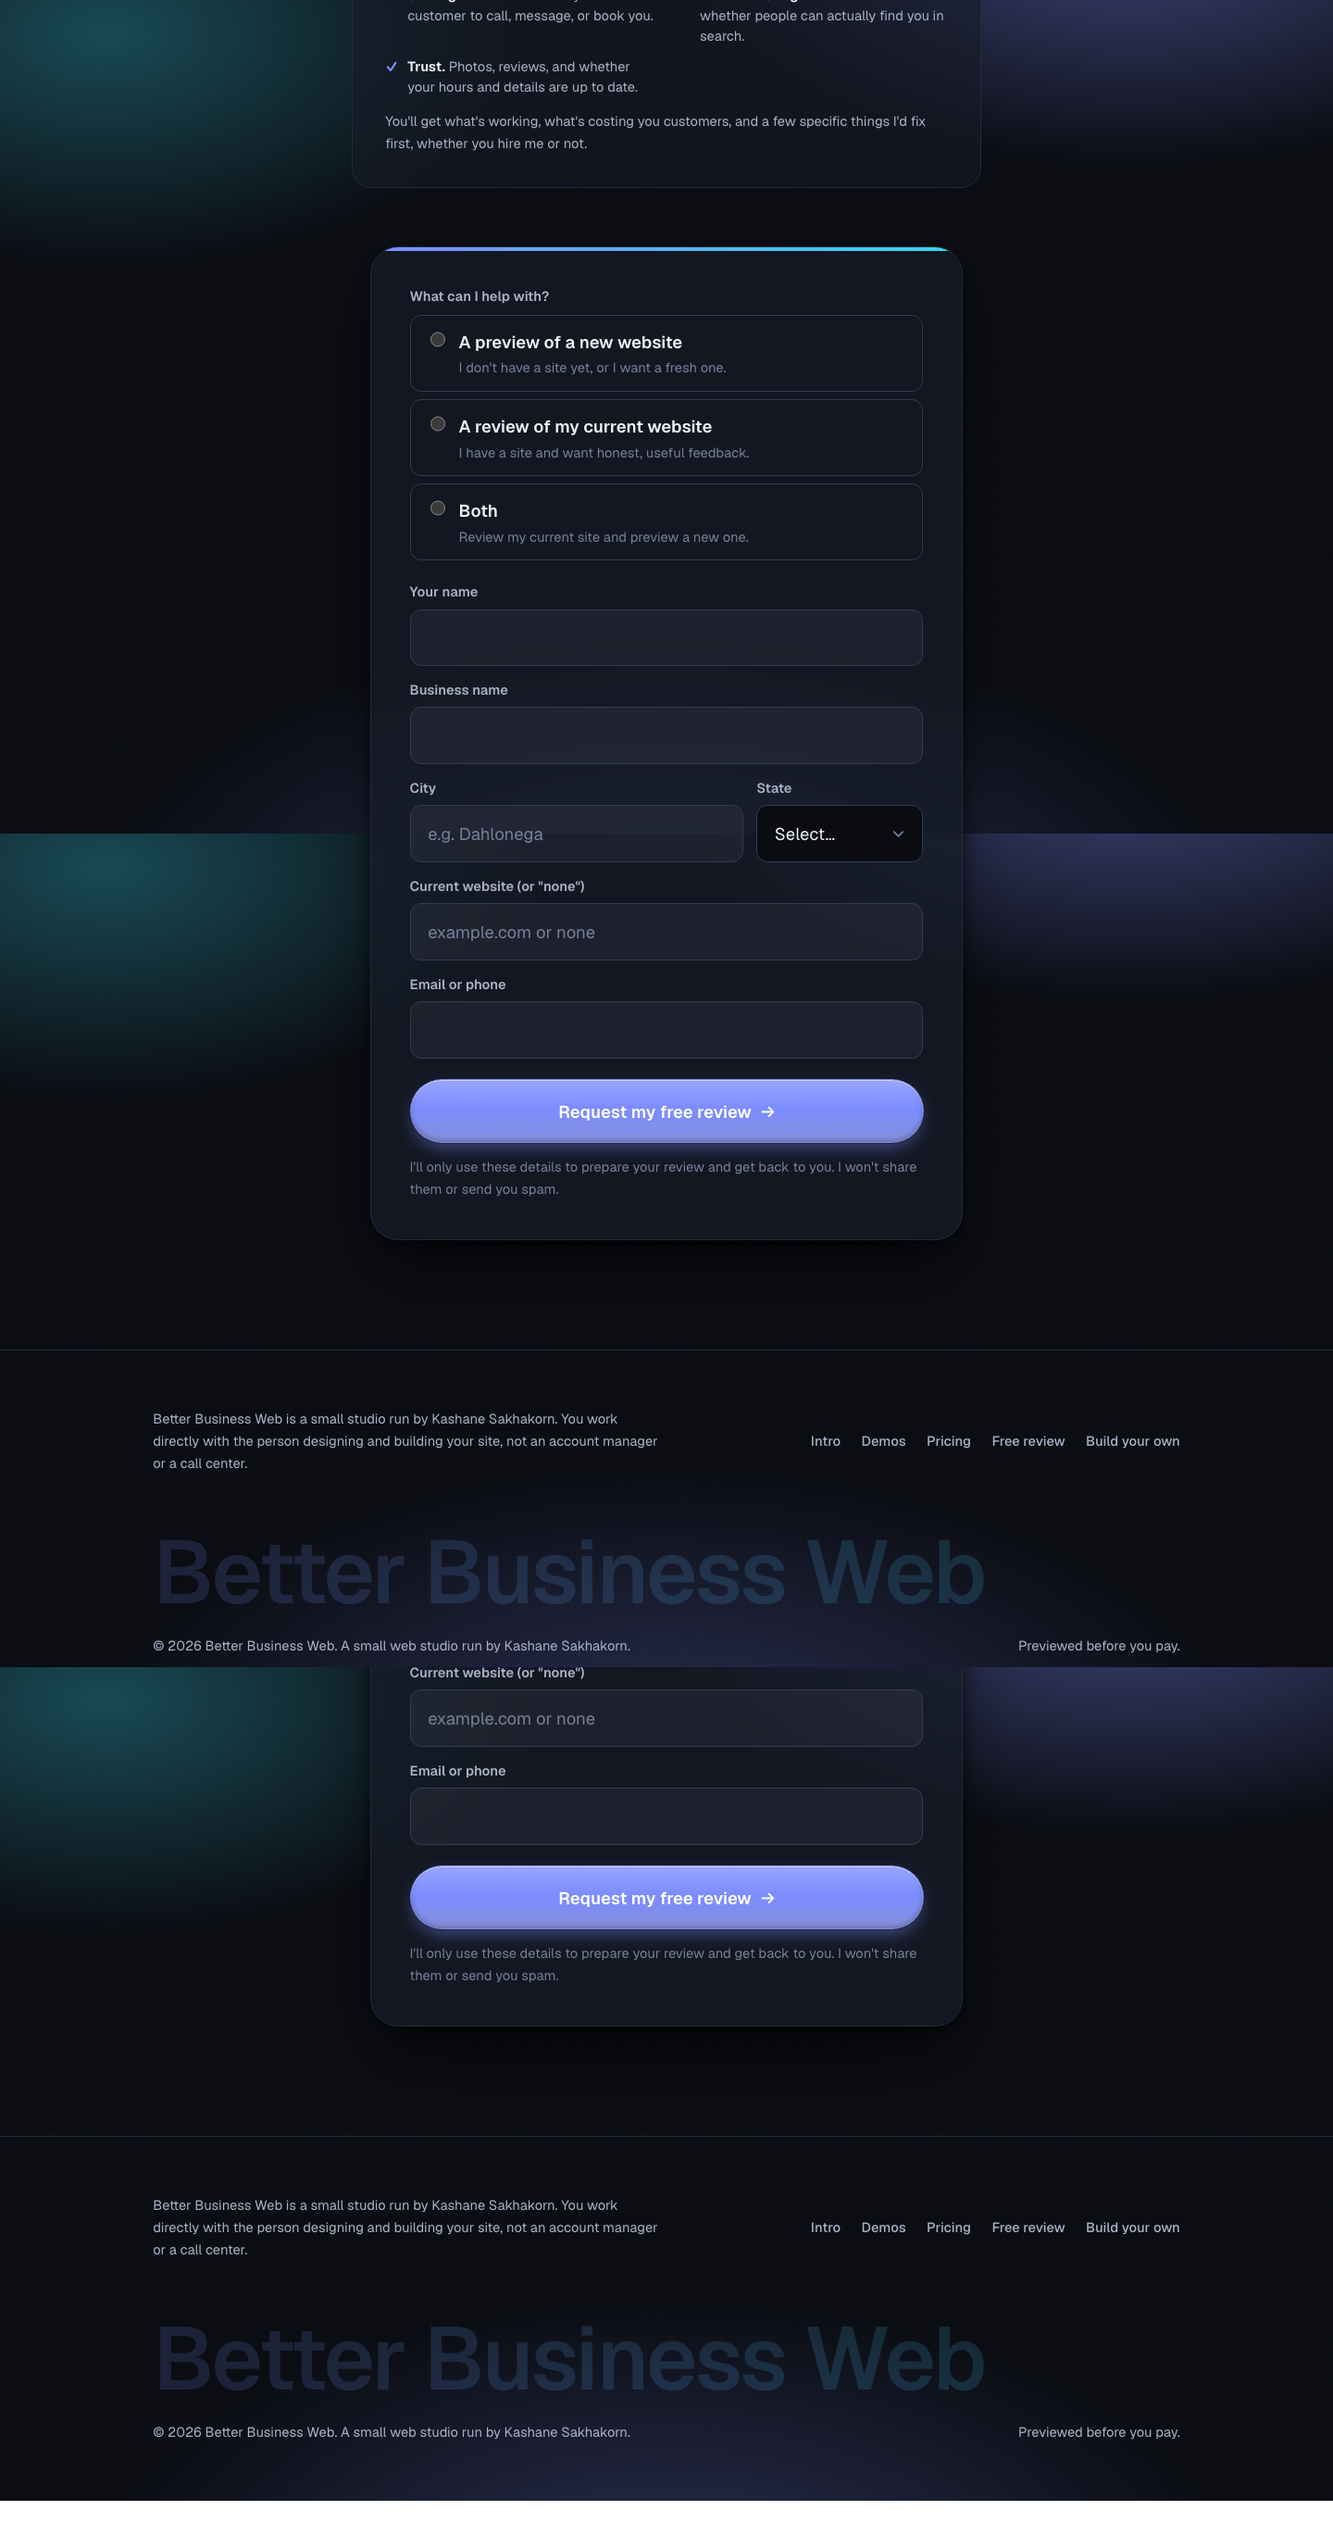
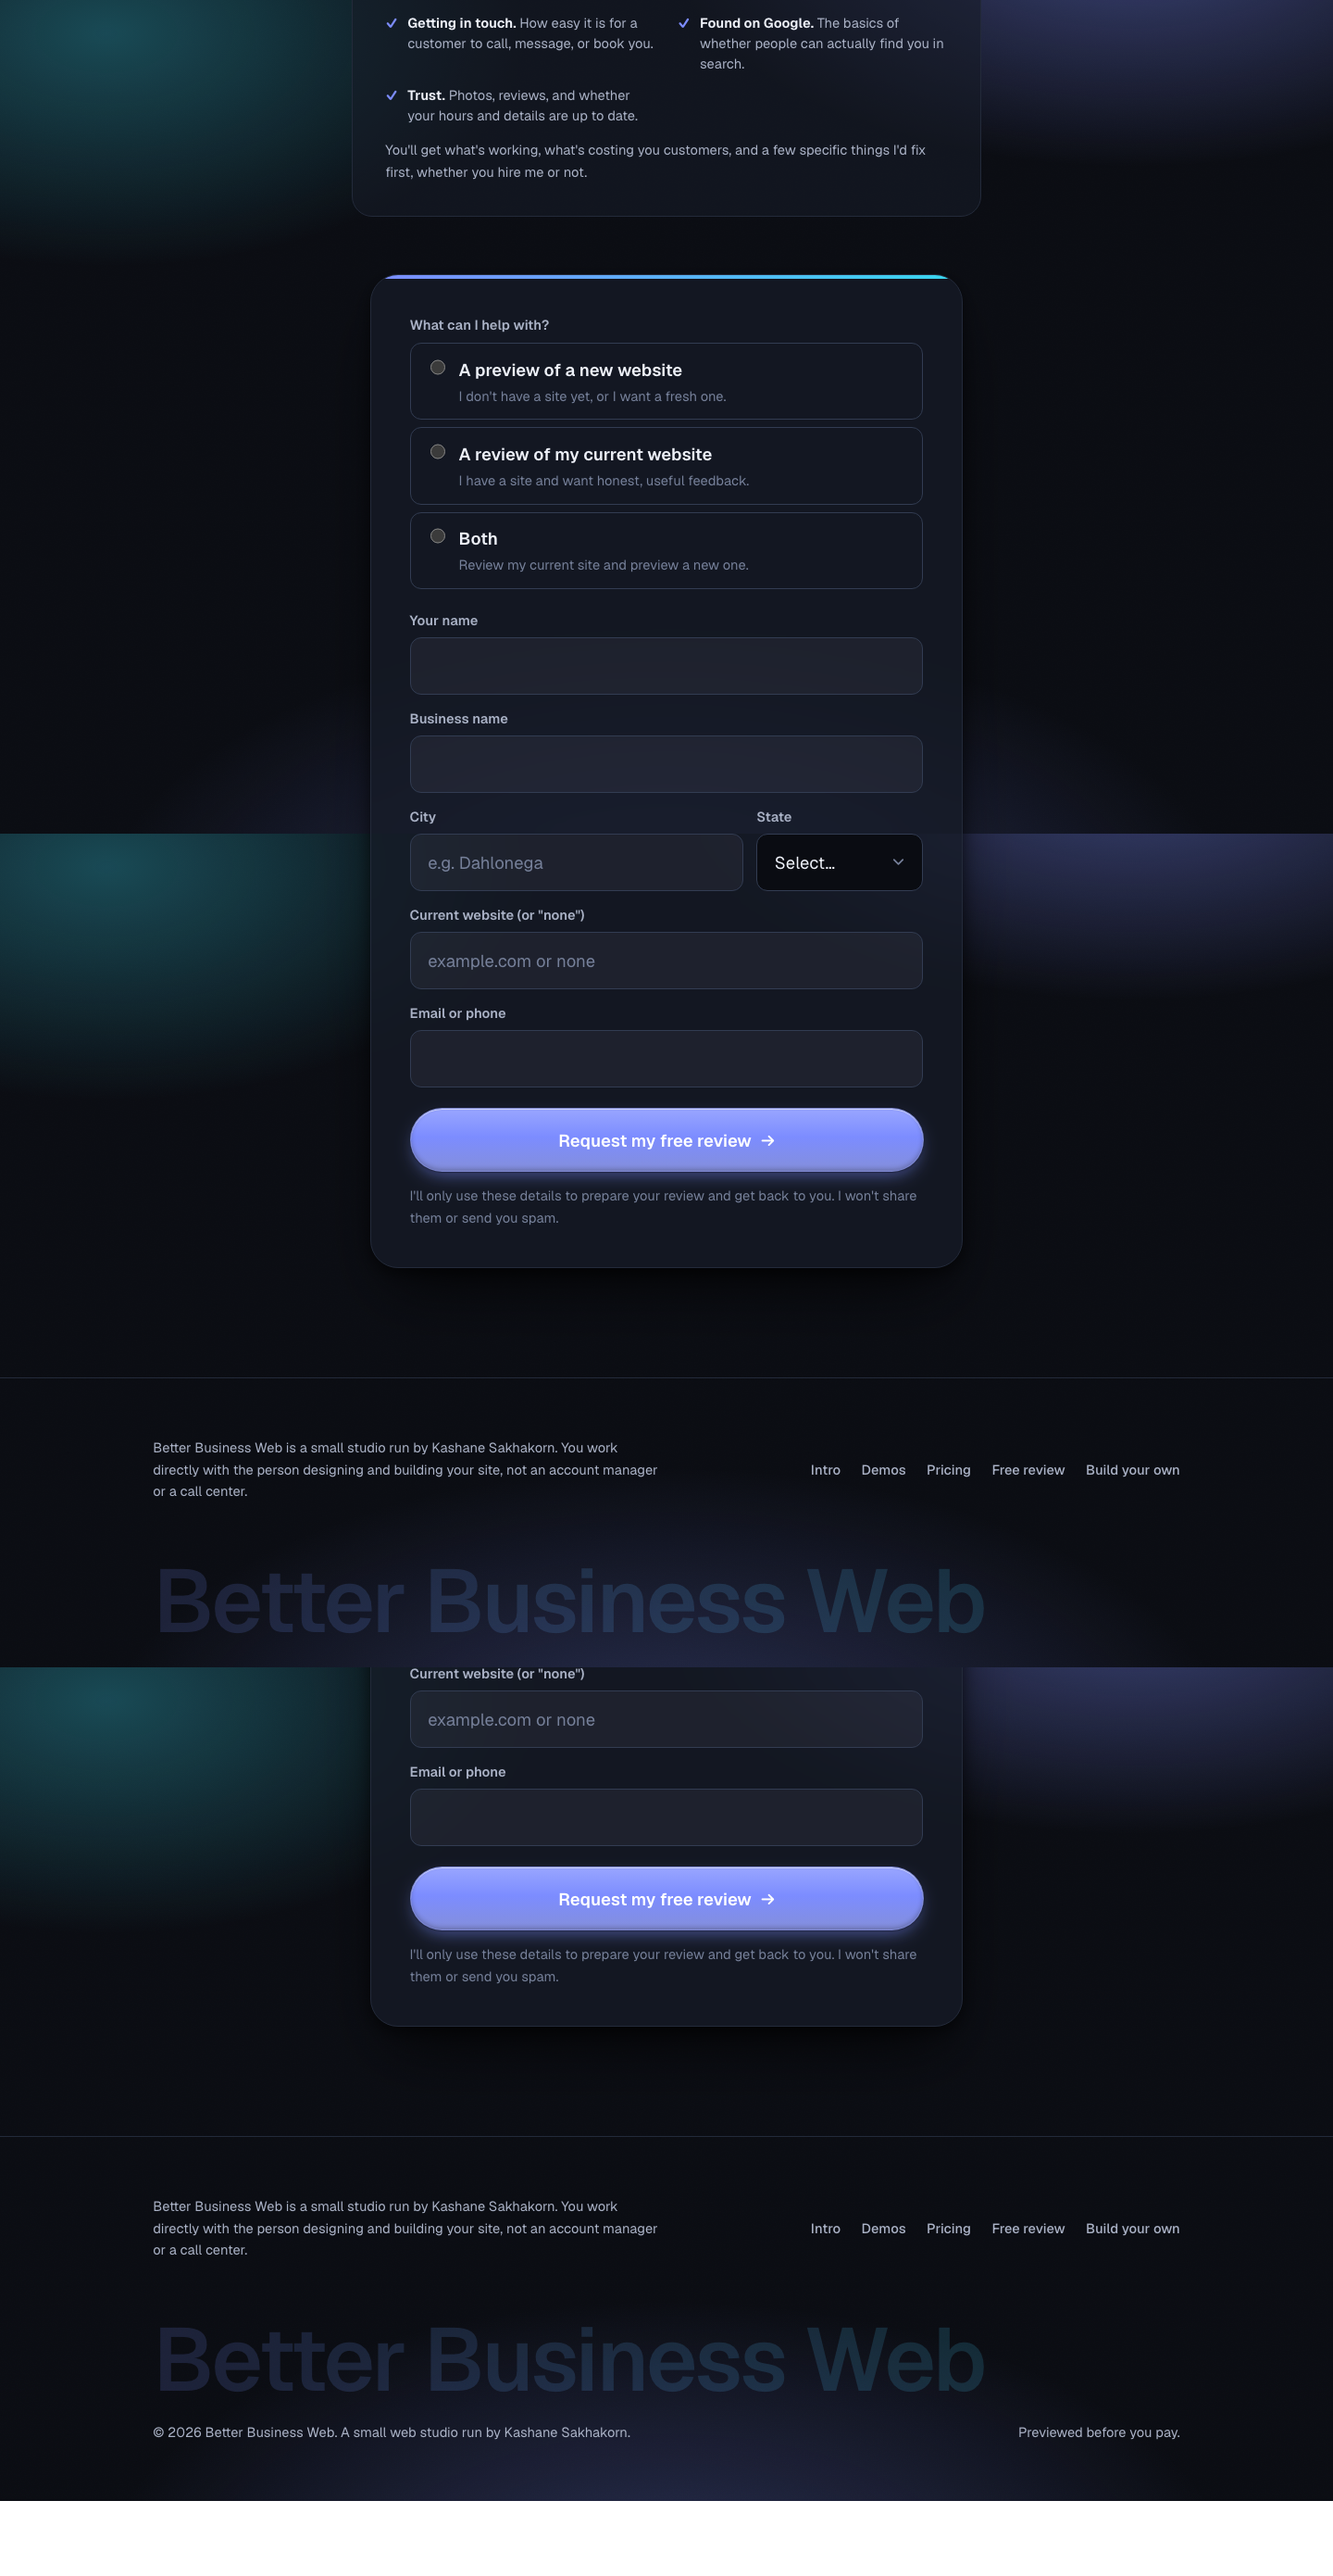
style(bbw): enlarge brand header wordmark to footer scale
Bump the header lockup to the oversized footer-word size (6rem cap on desktop);
the b-mark scales with it via em. Clamp slope tuned (1.8rem → 7.5vw → 6rem) so
"Better Business Web" still fits one line on a phone instead of wrapping. Removed
the now-orphaned --brand-gap / --brand-icon-size tokens.

diff --git a/products/better-business-web/site/src/styles/global.css b/products/better-business-web/site/src/styles/global.css
@@ -48,7 +48,6 @@
   --radius-xl: 30px;
   --container: 1180px;
   --nav-h: 60px;
-  --brand-gap: 0.6rem;
 
   /* Layered, warm-tinted elevation */
   --shadow-sm: 0 1px 2px rgba(33, 27, 21, 0.07);
